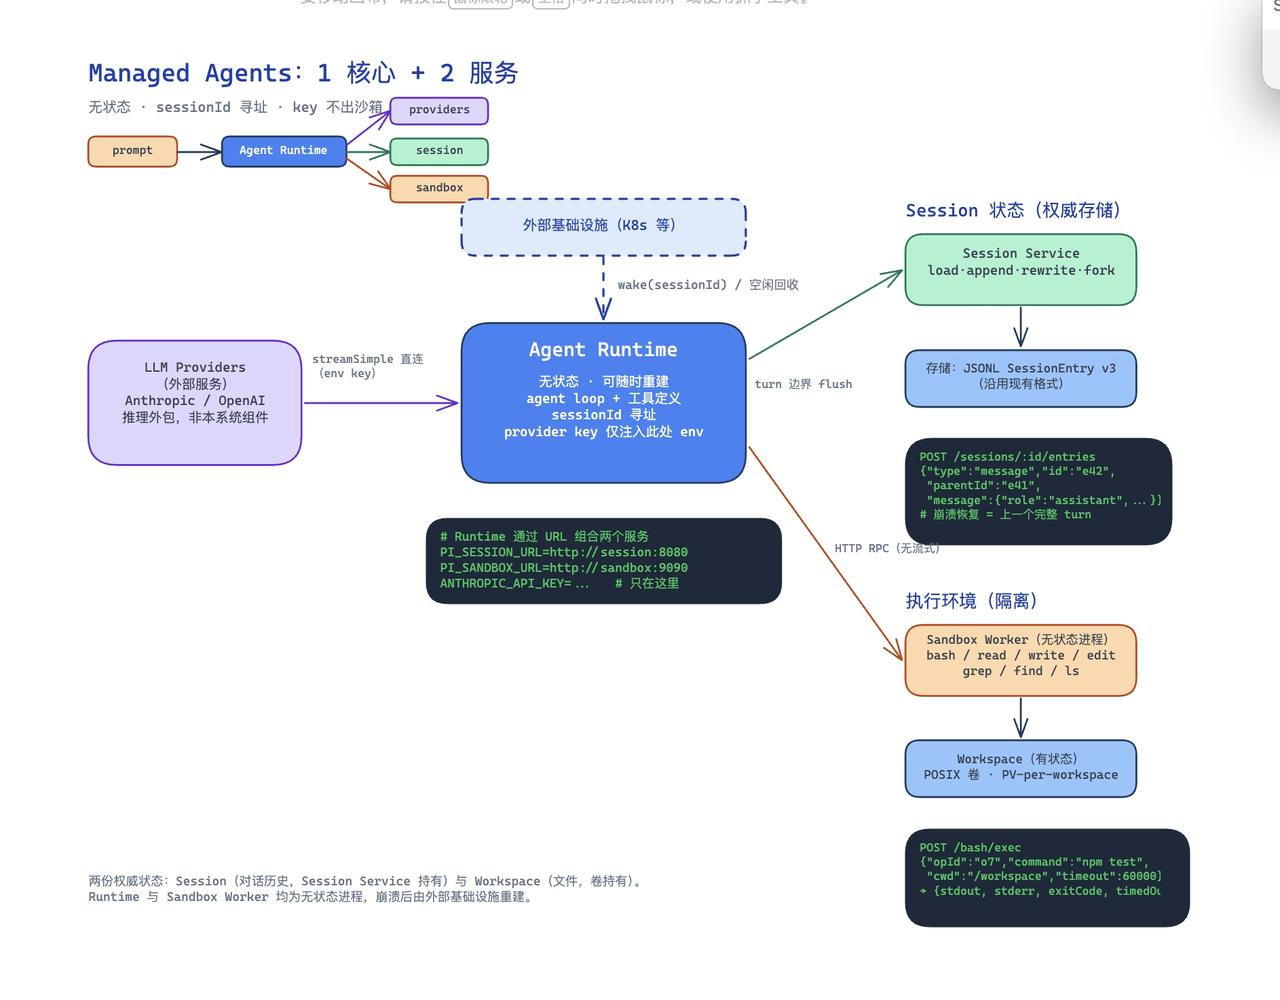
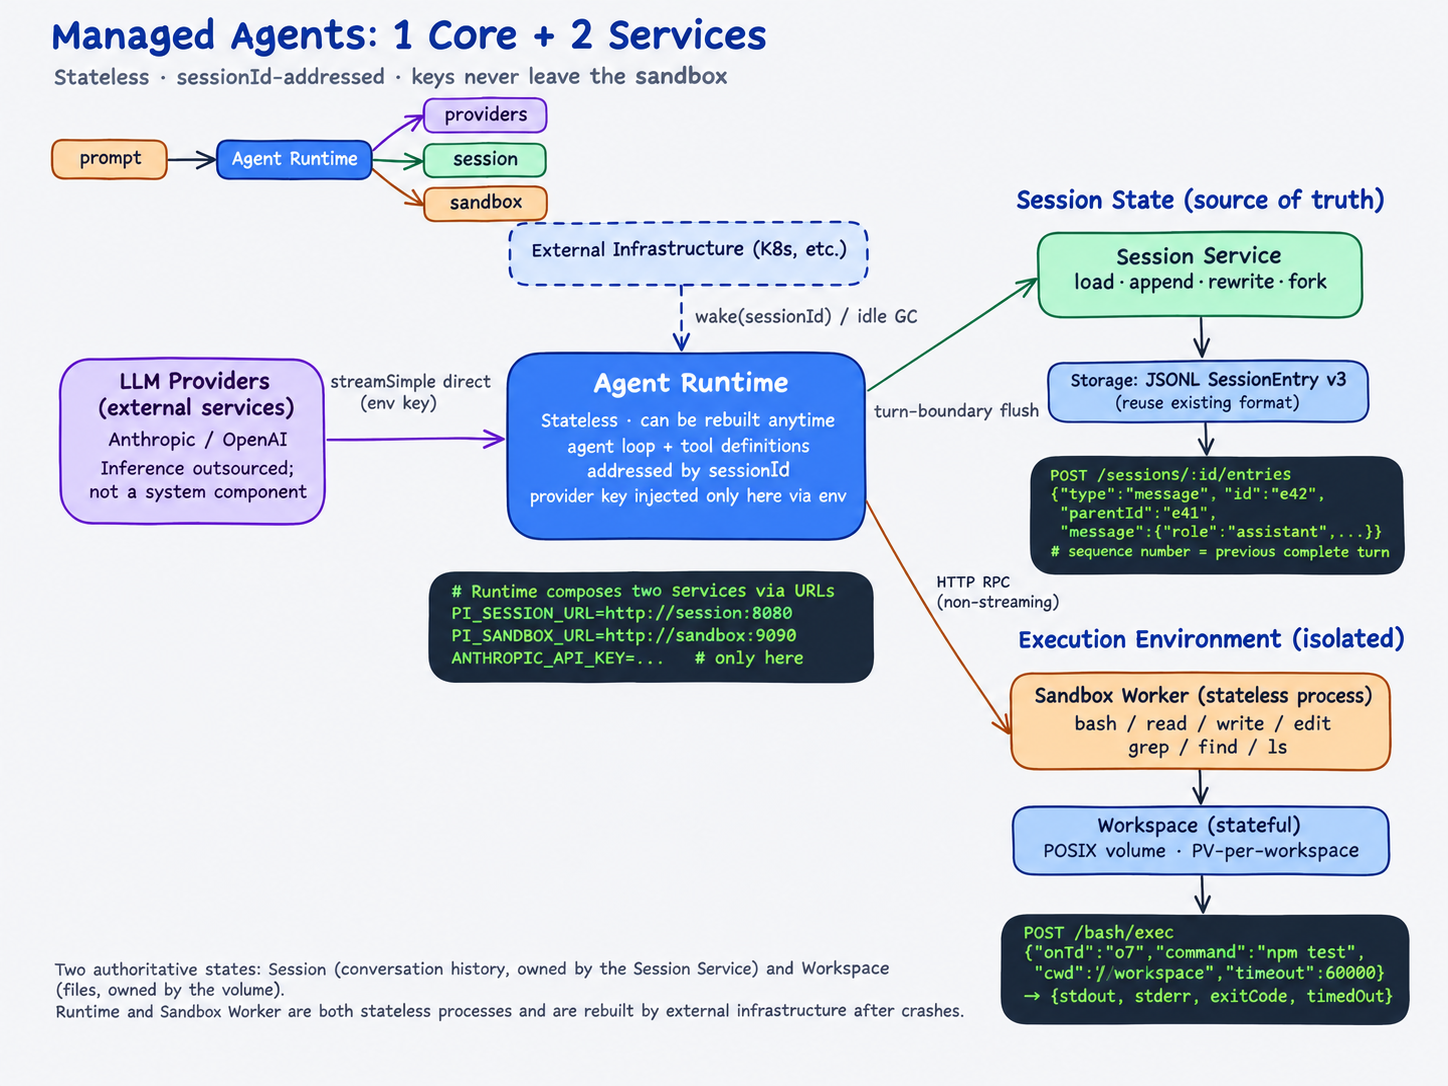
docs: replace proposed architecture diagram (#5)

diff --git a/docs/.vitepress/theme/components/DiagramZoom.vue b/docs/.vitepress/theme/components/DiagramZoom.vue
@@ -2,7 +2,7 @@
 import { nextTick, onUnmounted, ref } from 'vue'
 import { withBase } from 'vitepress'
 
-const image = withBase('/diagrams/agent-runtime-concept.png')
+const image = withBase('/diagrams/agent-runtime-concept.png?v=2bc359e9')
 const open = ref(false)
 const closeButton = ref(null)
 let previousFocus = null

diff --git a/docs/architecture.md b/docs/architecture.md
@@ -34,7 +34,7 @@ sketch, **not a diagram of the current deployment**.
 
 <DiagramZoom />
 
-<a :href="withBase('/diagrams/agent-runtime-concept.png')">Open the diagram at full size</a>.
+<a :href="withBase('/diagrams/agent-runtime-concept.png?v=2bc359e9')">Open the diagram at full size</a>.
 
 The live system differs in several important ways: the runtime keeps
 active sessions in memory and rehydrates them from Supabase Postgres;
